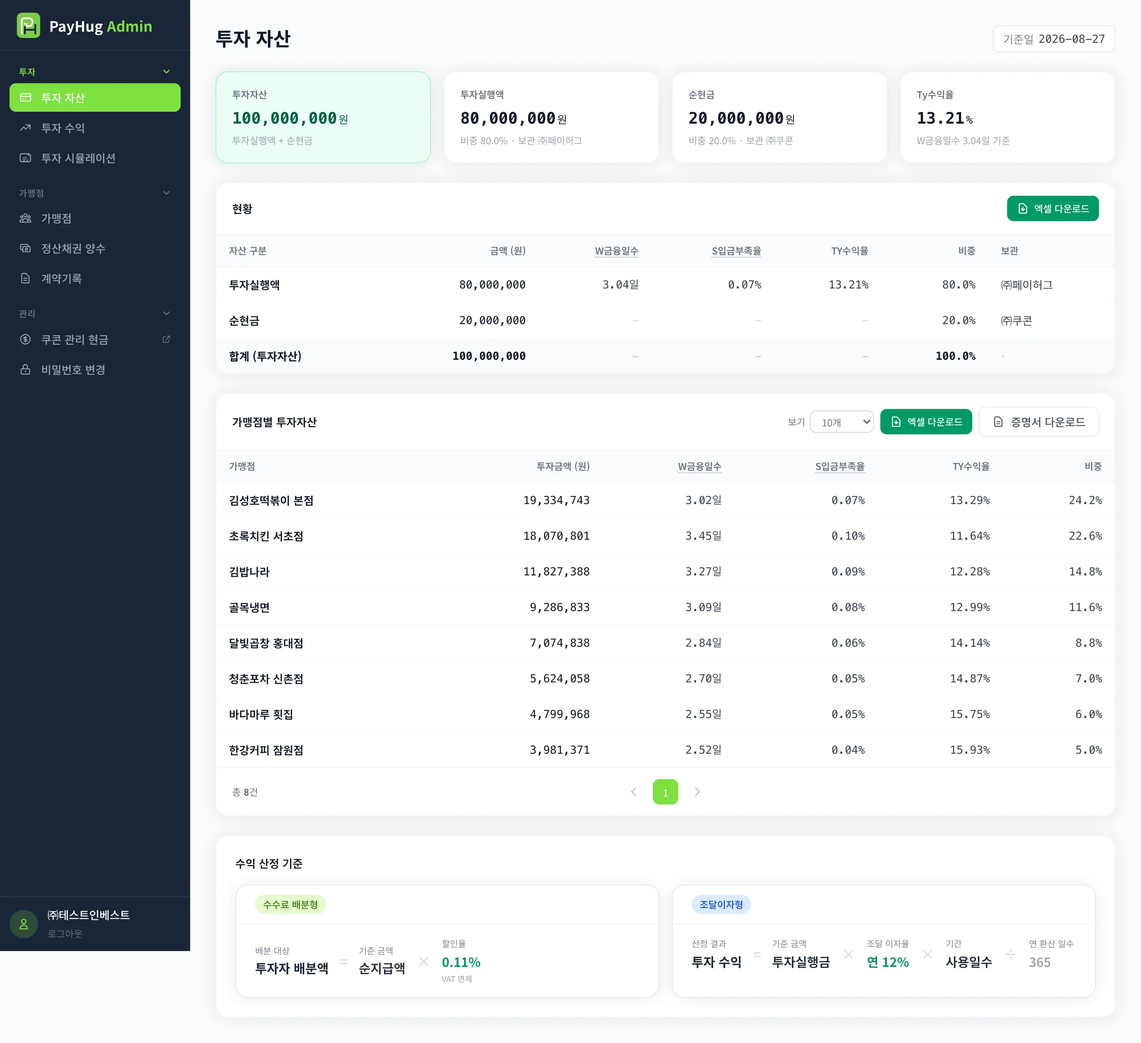
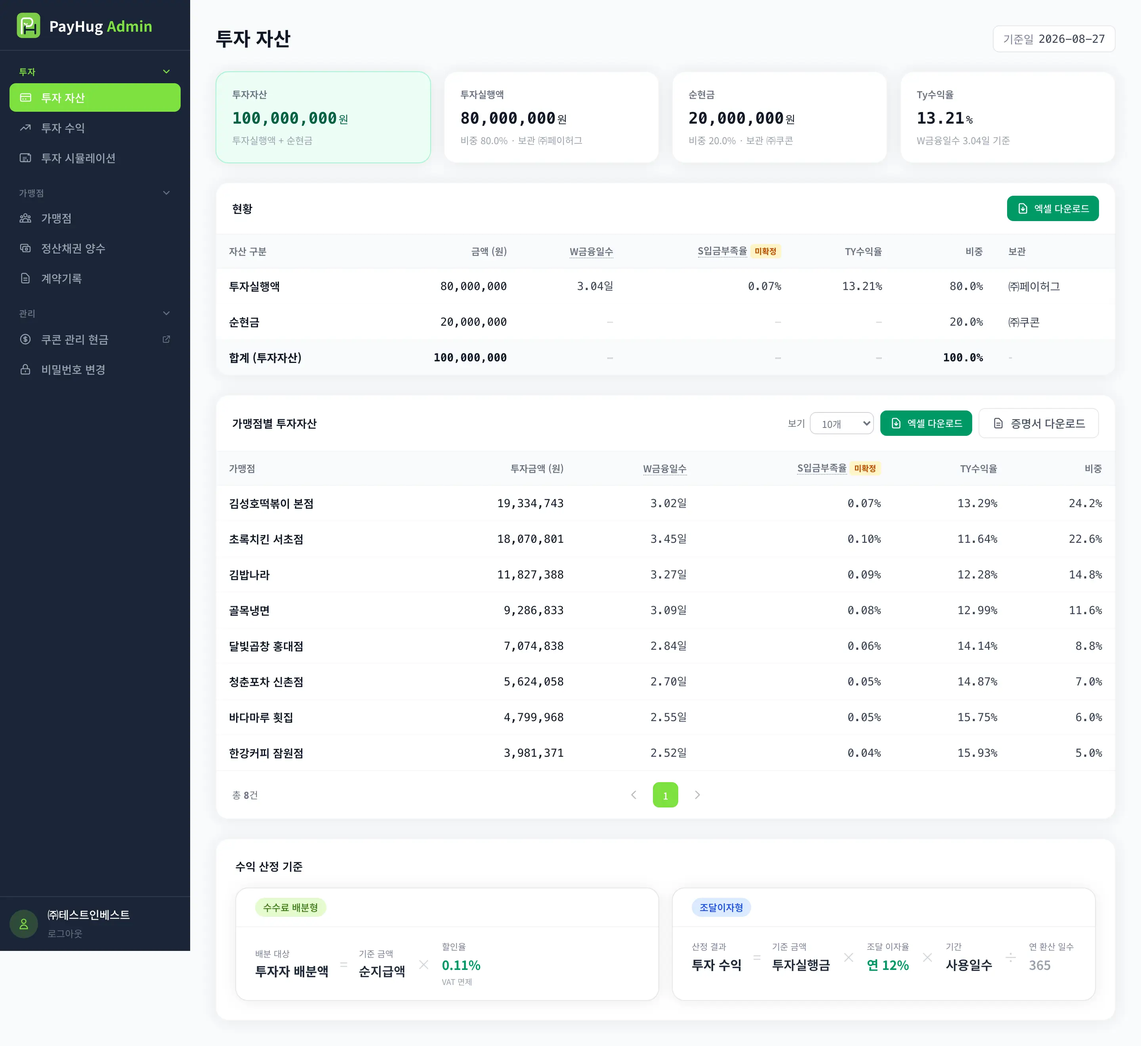
기호 규칙 d 적용 · ⑤ 단일 원천 · ⑥ 배선 — 화면 재생성
- S입금부족율 열머리 표본 구간을 d-20 ~ d-11 로. 소문자 d 표기가 잠정이라 그 열머리에만 미확정 배지
- ③ 투자실행금 열머리에 ⑤⑥ 과 같은 미확정 배지 — 대표가 칸을 지목하지 않았다
- ⑥ 열머리 툴팁에 행의 뜻 한 줄 — 정산예정일이 그 날짜인 대상정산금채권 집합
- 대표 DM 16:19 · 16:27 · 16:45 세 사실을 투자 자산 카드 툴팁과 ④ 툴팁에. 일 환산은 값 없이 미확정 자리만
- ⑤·⑥ 산식이 daily_ledger.py 한 줄에서 오도록 배선. 화면 숫자는 그대로

diff --git a/app.html b/app.html
@@ -443,7 +443,7 @@
 </style>
 </head>
 <!--
-  통합 프로토타입 — 한 파일에서 화면 15 · 상태 18 전부를 조작한다.
+  통합 프로토타입 — 한 파일에서 화면 16 · 상태 18 전부를 조작한다.
   개별 HTML 33개는 Figma 임포트용 정적 원본으로 별도 보존한다(이 파일이 대체하지 않는다).
   화면은 데이터 모델에서만 그린다. 표·합계·비중은 조작 결과로 계산되며 하드코딩하지 않는다.
   딥링크: #<화면>/<상태>  예) #invest-assets/download · #acquisition-list/signing
@@ -1064,7 +1064,7 @@
       </div>
       <span class="hero-date">2026-08-27</span>
     </div>
-    <div class="sec-head"><h2>화면</h2><span class="sec-note">메뉴 대응 8 · 하위 6 · 상태 18</span></div>
+    <div class="sec-head"><h2>화면</h2><span class="sec-note">메뉴 대응 8 · 하위 7 · 상태 18</span></div>
     <div class="gallery" data-mount="ix-gallery"></div>
   </div>
 </section>
@@ -1655,18 +1655,32 @@ function wavg(a, k, wk){ var n=0, d=0; for(var i=0;i<a.length;i++){ n += a[i][k]
    현황표의 두 칸과 맞아떨어지지 않는다. 그 모집단을 열머리 툴팁이 그대로 적는다.
    건수는 채권 원장 실측이다(daily_ledger.py) — 화면에 손으로 적지 않는다. */
 var POP_W = {of:'대상정산금채권 전체 (발생 기준)', n:'61,760건'};
-var POP_S = {of:'선정산일 D-20 ~ D-11 표본',       n:'3,200건'};
+/* 소문자 d 표기는 잠정이다 — 대표 DM 15:15 는 금융일수 쪽 글자를 바꾸라고 했고 우리는 날짜 쪽을
+   내렸다(dm_0831/symbol_rule_0831.md). 4차 미팅 확인 전까지 표기에 미확정을 단다. */
+var POP_S = {of:'선정산일 d-20 ~ d-11 표본',       n:'3,200건', pend:1};
 function popTh(label, p){
   return '<th class="num"><span class="tooltip wide"><span class="tip-anchor">' + label + '</span>' +
          '<span class="tip-panel">' + p.of +
            '<span class="tip-row"><span>채권 건수</span><span class="tip-green">' + p.n + '</span></span>' +
-         '</span></span></th>';
+           (p.pend ? '<span class="tip-row"><span>표기 d</span><span>미확정</span></span>' + PEND_ROW : '') +
+         '</span></span>' + (p.pend ? PEND_BADGE : '') + '</th>';
 }
 /* 대표 재전달 대기 — 2026-08-31 회의에서 ⑤ 는 「수식 새로 작성해 전달」,
    ⑥ 은 「4,5번과 다르니 계산식 다시 확인할 것」 으로 끝났다(meeting_0831/ceo_definitions_20260831.txt).
    값은 그대로 두고 미확정만 표시한다 — 표기는 용어정의서가 쓰는 낱말 `미확정` 을 그대로 쓴다. */
 var PEND_BADGE = ' <span class="badge sm badge-amber">미확정</span>';
 var PEND_ROW   = '<span class="tip-row sum"><span>미확정</span><span>대표 재전달 대기</span></span>';
+/* ── ③ ⑤ ⑥ 단일 원천 ────────────────────────────────────────────
+   산식은 생성기 daily_ledger.py 의 ty_third · ty_asset · ty_row 한 벌에서 온다
+   (TY3_JS · TY5_JS · TY6_JS). 화면에 두 번째 산식을 적지 않는다 —
+   대표가 ⑤ 를 새로 주면 daily_ledger.ty_asset 한 곳만 고치면 ⑤·⑥ 이 함께 움직인다. */
+function ty3(execu){ return execu; }
+function ty5(ty4, psa, psc){ var tot = psa + psc;
+  return tot ? ty4 * psa / tot : 0; }
+var TY6_PSC = 0;   /* ⑥ 이 ⑤ 를 거칠 때 넣는 PSC — 일별 EC 원장이 없어 0 이다 */
+function ty6(profit, execu, w){ var third = ty3(execu);
+  if(!(third && w)) return 0;
+  return ty5((profit / third * 100) * 365 / w, third, TY6_PSC); }
 /* ⑥ 일별 Ty수익율 열 — 원문 `(④ ÷ ③) × 365 ÷ ⑤` 를 일별 표의 열 번호로 읽은 것이다.
    현황 카드 번호(④ 투자실행금액 대비 · ⑤ 투자자산 대비)를 그대로 넣으면
    `수익률 ÷ 금액 × 365 ÷ 수익률` 이 되어 성립하지 않는다. */
@@ -1674,6 +1688,16 @@ function tyTh(){
   return '<th class="num"><span class="tooltip wide"><span class="tip-anchor">Ty수익율</span>' +
          '<span class="tip-panel">(④ ÷ ③) × 365 ÷ ⑤' +
            '<span class="tip-row"><span>번호</span><span class="tip-green">일별 표 열 ③투자실행금 ④투자 수익 ⑤W금융일수</span></span>' +
+           '<span class="tip-row"><span>행</span><span class="tip-green">정산예정일이 그 날짜인 대상정산금채권 집합</span></span>' +
+           PEND_ROW +
+         '</span></span>' + PEND_BADGE + '</th>';
+}
+/* ③ 열머리 — 대표는 ③ 을 「상단 현황의 기간 전체 숫자」까지만 좁혔고 어느 칸인지는 지목하지 않았다
+   (2026-08-31 회의 00:59:21). ⑥ 이 ③ 을 쓰므로 ⑤·⑥ 과 같은 배지를 단다. */
+function thirdTh(){
+  return '<th class="num"><span class="tooltip wide"><span class="tip-anchor">투자실행금</span>' +
+         '<span class="tip-panel">⑥ 의 ③' +
+           '<span class="tip-row"><span>번호</span><span class="tip-green">상단 현황의 기간 전체 숫자 · 칸 미지목</span></span>' +
            PEND_ROW +
          '</span></span>' + PEND_BADGE + '</th>';
 }
@@ -2067,13 +2091,26 @@ RENDER['invest-assets'] = function(){
     '<div class="summary-card highlight"><div class="summary-label">투자자산</div>' +
       '<div class="summary-value">' + fmt(total) + '<span class="unit">원</span></div>' +
       '<div class="summary-sub">투자실행액 + 순현금</div></div>' +
-    '<div class="summary-card"><div class="summary-label">투자실행액</div>' +
+    '<div class="summary-card"><div class="summary-label">' +
+      '<span class="tooltip wide"><span class="tip-anchor">투자실행액</span>' +
+        '<span class="tip-panel">순지급액 × (1 − 할인율)' +
+          '<span class="tip-row"><span>할인율</span><span class="tip-green">' + fx(RATE_PCT, 2) + '%</span></span>' +
+          '<span class="tip-row"><span>대표 DM 16:19</span><span class="tip-green">가맹점 매입 1% 차감</span></span>' +
+          '<span class="tip-row sum"><span>미확정</span><span>선정산 실행액은 이보다 작다</span></span>' +
+        '</span></span></div>' +
       '<div class="summary-value">' + fmt(exec) + '<span class="unit">원</span></div>' +
       '<div class="summary-sub">비중 ' + fx(rExec, 1) + '% · 보관 ㈜페이허그</div></div>' +
     '<div class="summary-card"><div class="summary-label">순현금</div>' +
       '<div class="summary-value">' + fmt(cash) + '<span class="unit">원</span></div>' +
       '<div class="summary-sub">비중 ' + fx(rCash, 1) + '% · 보관 ㈜쿠콘</div></div>' +
-    '<div class="summary-card"><div class="summary-label">Ty수익율</div>' +
+    '<div class="summary-card"><div class="summary-label">' +
+      '<span class="tooltip wide"><span class="tip-anchor">Ty수익율</span>' +
+        '<span class="tip-panel">할인율 × (365 ÷ W금융일수)' +
+          '<span class="tip-row"><span>연 환산</span><span class="tip-green">' + fx(tyv, 2) + '%</span></span>' +
+          '<span class="tip-row"><span>일 환산</span><span>미확정</span></span>' +
+          '<span class="tip-row"><span>대표 DM 16:27</span><span class="tip-green">365 ÷ W금융일수 = 1년 회전수</span></span>' +
+          '<span class="tip-row sum"><span>대표 DM 16:45</span><span>예상치 · 할인율 계통</span></span>' +
+        '</span></span></div>' +
       '<div class="summary-value">' + fx(tyv, 2) + '<span class="unit">%</span></div>' +
       '<div class="summary-sub">' + (wv === null ? 'W금융일수 집계 대상 없음' : 'W금융일수 ' + fx(wv, 2) + '일 기준') + '</div></div>';
 
@@ -2181,7 +2218,7 @@ function rollupBy(days, keyOf, labelOf){
        일자별 ty 를 다시 가중평균하면 표기 자리에서 W 와 어긋난다(주 버킷에서 실제로 어긋났다).
        반올림하지 않고 담아 두고 표기할 때만 자른다. 그래야 일별·주별·월별 표의 카드 값이 같다. */
     g.w  = g.exec ? g.wx / g.exec : 0;
-    g.ty = (g.exec && g.w) ? (g.profit / g.exec * 100) * 365 / g.w : 0;
+    g.ty = ty6(g.profit, g.exec, g.w);   /* ⑥ — ty5() 를 거친다 */
   }
   out.sort(function(a, b){ return a.k < b.k ? -1 : (a.k > b.k ? 1 : 0); });
   return out;
@@ -2222,15 +2259,17 @@ function cashRow(){
   return null;
 }
 /* ── 투자자산 대비 Ty수익율 (현황 ⑤) — 대표 정의서 ────────────────
-   ⑤ = (④ × PSA) / (PSA + PSC).  PSA = 기간 투자실행금 합, PSC = 기간 동안 EC들의 합.
-   EC = 전일자 마감시점 순현금이며 하루에 한 건 쌓인다(유량). 기준일 잔액 1개(스톡)로 나누지 않는다.
+   산식은 ty5() 한 곳에 있다(생성기 daily_ledger.ty_asset). 여기는 PSC 를 만들어 넘기기만 한다.
+   PSA = 기간 투자실행금 합, PSC = 기간 동안 EC들의 합.
+   EC = 정산예정일이 어제인 대상정산금채권을 마감한 시점의 순현금이며 하루에 한 건 쌓인다(유량).
+   기준일 잔액 1개(스톡)로 나누지 않는다.
    일별 EC 원장이 없어 EC 는 순현금 잔액으로 고정한다 — 실데이터 연결은 확인 대상. */
 /* EC 는 하루에 한 건 쌓이는 유량이라 조회 기간에 걸린 일수만큼 센다.
    일별·월별 어느 쪽으로 보든 같은 기간이면 같은 일수라야 하므로 원장 일수 하나로 센다. */
 function ecDays(){ return pfDays().length; }
 function tyAssetOf(ty4, psa){
   var c = cashRow(), psc = (c ? c.amount : 0) * ecDays();
-  return (psa + psc) ? ty4 * psa / (psa + psc) : 0;
+  return ty5(ty4, psa, psc);
 }
 RENDER['invest-profit'] = function(){
   var sec = SEC('invest-profit'), rows = pfRows();
@@ -2273,6 +2312,9 @@ RENDER['invest-profit'] = function(){
         '<span class="tip-panel">PSMR × 365 ÷ PSD' +
           '<span class="tip-row"><span>PSMR</span><span class="tip-green">투자수익 ÷ 투자실행금</span></span>' +
           '<span class="tip-row"><span>PSD</span><span class="tip-green">투자실행금 가중평균 금융일수</span></span>' +
+          '<span class="tip-row"><span>항등식</span><span class="tip-green">할인율 − max(0, 미지급금 − 과지급금) ÷ 투자실행액</span></span>' +
+          '<span class="tip-row"><span>부족액 0</span><span class="tip-green">할인율 ' + fx(RATE_PCT, 2) + '% ↔ SMR ' + fx(RATE_PCT / (1 - RATE_PCT / 100), 6) + '% · 미확정</span></span>' +
+          '<span class="tip-row sum"><span>대표 DM 16:45</span><span>실적치 · SMR 계통</span></span>' +
         '</span></span></div>' +
         '<div class="summary-value">' + fx(tyExec, 2) + '<span class="unit">%</span></div></div>' +
       '<div><div class="ty-label"><span class="tooltip wide"><span class="tip-anchor">투자자산 대비</span>' +
@@ -2287,7 +2329,7 @@ RENDER['invest-profit'] = function(){
 
   var box = M('pf-tbl', 'invest-profit');
   var PF_HEAD = '<th>' + GRAN_COL[PF.gran] + '</th><th class="num">상환액</th>' +
-                '<th class="num">투자실행금</th><th class="num">투자 수익</th>' +
+                thirdTh() + '<th class="num">투자 수익</th>' +
                 '<th class="num">W금융일수</th>' + tyTh();
   if(!rows.length){
     box.innerHTML = emptyTable(PF_HEAD, 6, '조회 결과가 없습니다.');
@@ -2320,7 +2362,8 @@ RENDER['invest-profit'] = function(){
 /* ───────── 투자 시뮬레이션 ─────────
    기존 화면과 완전히 별개다. SIM 은 IA·PF·MC·AQ·CT 와 독립된 상태 객체이고
    simRun() 은 MERCHANTS·ASSET_ROWS·DAILY 를 읽지도 쓰지도 않는다.
-   산식 출처 — 대표 정의서 [1번 이미지] A<sub>i</sub>·D<sub>i</sub>·w·ty·S · [2번 이미지] M<sub>D−1,&thinsp;i</sub>·B<sub>D−1,&thinsp;i</sub>·PSA·PSM·PSD·PSMR·PSC.
+   산식 출처 — 대표 정의서 [1번 이미지] A<sub>i</sub>·D<sub>i</sub>·w·ty·S · [2번 이미지] M<sub>d−1,&thinsp;i</sub>·B<sub>d−1,&thinsp;i</sub>·PSA·PSM·PSD·PSMR·PSC.
+   대문자 D 는 금융일수, 소문자 d 는 오늘 날짜다. d−1 은 어제 날짜가 아니라 정산예정일이 어제인 대상정산금채권 집합을 가리킨다.
    앵커는 순지급액이다(채권매입수수료 = 순지급액 x 할인율 · D-31). 일별 원장 daily_ledger.py 도 같은 앵커라
    투자 수익 화면과 이 화면의 같은 열은 같은 산식에서 나온다. */
 var SIM_PLAT = [
@@ -2374,7 +2417,7 @@ function simDays(a, b){ return Math.round((dt(b) - dt(a)) / 86400000); }
 function simFloor(x){ return Math.floor(Number(Number(x).toFixed(6))); }
 function simAmtTotal(){ var t = 0, i; for(i = 0; i < SIM.rows.length; i++) t += SIM.rows[i].amt; return t; }
 
-/* 채권 1건 — A<sub>i</sub> · D<sub>i</sub> · 채권매입수수료 · 미지급 차감 · 투자수익 M<sub>D−1,&thinsp;i</sub> · 상환액 B<sub>D−1,&thinsp;i</sub> */
+/* 채권 1건 — A<sub>i</sub> · D<sub>i</sub> · 채권매입수수료 · 미지급 차감 · 투자수익 M<sub>d−1,&thinsp;i</sub> · 상환액 B<sub>d−1,&thinsp;i</sub> */
 function simBond(row, r, dedRate){
   var A   = simFloor(row.amt * (1 - r));
   var D   = simDays(row.sd, row.dd);
@@ -2410,7 +2453,7 @@ function simRun(){
   var TY4  = PSD ? PSMR * 365 / PSD : 0;
   var ECD  = (SIM.from && SIM.to) ? simDays(SIM.from, SIM.to) + 1 : 0;
   var PSC  = SIM.cash * ECD;
-  var TY5  = (PSA + PSC) ? TY4 * PSA / (PSA + PSC) : 0;
+  var TY5  = ty5(TY4, PSA, PSC);
 
   /* ── 일별 ── */
   var day = {}, keys = [];
@@ -2423,7 +2466,7 @@ function simRun(){
   var rows = keys.map(function(k){
     var g = day[k];
     g.W  = g.A ? g.wx / g.A : 0;
-    g.TY = (g.A && g.W) ? (g.M / g.A * 100) * 365 / g.W : 0;
+    g.TY = ty6(g.M, g.A, g.W);   /* ⑥ — ty5() 를 거친다 */
     return g;
   });
 
@@ -2562,6 +2605,9 @@ function simTyTip(R){
       '<span class="tip-panel">PSMR × 365 ÷ PSD' +
         '<span class="tip-row"><span>PSMR</span><span class="tip-green">투자수익 ÷ 투자실행금</span></span>' +
         '<span class="tip-row"><span>PSD</span><span class="tip-green">투자실행금 가중평균 금융일수</span></span>' +
+        '<span class="tip-row"><span>항등식</span><span class="tip-green">할인율 − max(0, 미지급금 − 과지급금) ÷ 투자실행액</span></span>' +
+        '<span class="tip-row"><span>부족액 0</span><span class="tip-green">할인율 ' + fx(RATE_PCT, 2) + '% ↔ SMR ' + fx(RATE_PCT / (1 - RATE_PCT / 100), 6) + '% · 미확정</span></span>' +
+        '<span class="tip-row sum"><span>대표 DM 16:45</span><span>실적치 · SMR 계통</span></span>' +
       '</span></span></div>' +
       '<div class="summary-value' + (R.TY4 < 0 ? ' neg' : '') + '">' + fx(R.TY4, 2) + '<span class="unit">%</span></div></div>' +
     '<div><div class="ty-label"><span class="tooltip wide"><span class="tip-anchor">투자자산 대비</span>' +
@@ -2643,7 +2689,7 @@ function simResultHtml(){
     '</div></div>';
 
   /* ⑤ 일별 투자수익 */
-  var HEAD = '<th>정산예정일</th><th class="num">상환액</th><th class="num">투자실행금</th>' +
+  var HEAD = '<th>정산예정일</th><th class="num">상환액</th>' + thirdTh() +
              '<th class="num">투자 수익</th><th class="num">W금융일수</th>' + tyTh();
   h += '<div class="tbl-wrap mb-6"><div class="tbl-head"><div class="left">' +
        '<h2 class="card-title">일별 투자수익</h2></div></div>';

diff --git a/invest-sim--result.html b/invest-sim--result.html
@@ -369,7 +369,7 @@
           <div class="summary-label">Ty수익율</div>
           <div class="ty-split">
             <div>
-              <div class="ty-label"><span class="tooltip wide"><span class="tip-anchor">투자실행금액 대비</span><span class="tip-panel">PSMR × 365 ÷ PSD<span class="tip-row"><span>PSMR</span><span class="tip-green">투자수익 ÷ 투자실행금</span></span><span class="tip-row"><span>PSD</span><span class="tip-green">투자실행금 가중평균 금융일수</span></span></span></span></div>
+              <div class="ty-label"><span class="tooltip wide"><span class="tip-anchor">투자실행금액 대비</span><span class="tip-panel">PSMR × 365 ÷ PSD<span class="tip-row"><span>PSMR</span><span class="tip-green">투자수익 ÷ 투자실행금</span></span><span class="tip-row"><span>PSD</span><span class="tip-green">투자실행금 가중평균 금융일수</span></span><span class="tip-row"><span>항등식</span><span class="tip-green">할인율 − max(0, 미지급금 − 과지급금) ÷ 투자실행액</span></span><span class="tip-row"><span>부족액 0</span><span class="tip-green">할인율 0.11% ↔ SMR 0.110121% · 미확정</span></span><span class="tip-row sum"><span>대표 DM 16:45</span><span>실적치 · SMR 계통</span></span></span></span></div>
               <div class="summary-value">4.81<span class="unit">%</span></div>
             </div>
             <div>
@@ -386,7 +386,7 @@
       <div class="tbl-scroll">
         <table class="tbl">
           <thead>
-            <tr><th>정산예정일</th><th class="num">상환액</th><th class="num">투자실행금</th><th class="num">투자 수익</th><th class="num">W금융일수</th><th class="num"><span class="tooltip wide"><span class="tip-anchor">Ty수익율</span><span class="tip-panel">(④ ÷ ③) × 365 ÷ ⑤<span class="tip-row"><span>번호</span><span class="tip-green">일별 표 열 ③투자실행금 ④투자 수익 ⑤W금융일수</span></span><span class="tip-row sum"><span>미확정</span><span>대표 재전달 대기</span></span></span></span> <span class="badge sm badge-amber">미확정</span></th></tr>
+            <tr><th>정산예정일</th><th class="num">상환액</th><th class="num"><span class="tooltip wide"><span class="tip-anchor">투자실행금</span><span class="tip-panel">⑥ 의 ③<span class="tip-row"><span>번호</span><span class="tip-green">상단 현황의 기간 전체 숫자 · 칸 미지목</span></span><span class="tip-row sum"><span>미확정</span><span>대표 재전달 대기</span></span></span></span> <span class="badge sm badge-amber">미확정</span></th><th class="num">투자 수익</th><th class="num">W금융일수</th><th class="num"><span class="tooltip wide"><span class="tip-anchor">Ty수익율</span><span class="tip-panel">(④ ÷ ③) × 365 ÷ ⑤<span class="tip-row"><span>번호</span><span class="tip-green">일별 표 열 ③투자실행금 ④투자 수익 ⑤W금융일수</span></span><span class="tip-row"><span>행</span><span class="tip-green">정산예정일이 그 날짜인 대상정산금채권 집합</span></span><span class="tip-row sum"><span>미확정</span><span>대표 재전달 대기</span></span></span></span> <span class="badge sm badge-amber">미확정</span></th></tr>
           </thead>
           <tbody>
             <tr><td class="mono">2026-08-24</td><td class="num">15,189,360</td><td class="num">15,183,280</td><td class="num"><span class="strong">6,080</span></td><td class="num">2.00</td><td class="num">7.31%</td></tr>

diff --git a/invest-profit--empty.html b/invest-profit--empty.html
@@ -173,7 +173,7 @@
           <div class="summary-label">Ty수익율</div>
           <div class="ty-split">
             <div>
-              <div class="ty-label"><span class="tooltip wide"><span class="tip-anchor">투자실행금액 대비</span><span class="tip-panel">PSMR × 365 ÷ PSD<span class="tip-row"><span>PSMR</span><span class="tip-green">투자수익 ÷ 투자실행금</span></span><span class="tip-row"><span>PSD</span><span class="tip-green">투자실행금 가중평균 금융일수</span></span></span></span></div>
+              <div class="ty-label"><span class="tooltip wide"><span class="tip-anchor">투자실행금액 대비</span><span class="tip-panel">PSMR × 365 ÷ PSD<span class="tip-row"><span>PSMR</span><span class="tip-green">투자수익 ÷ 투자실행금</span></span><span class="tip-row"><span>PSD</span><span class="tip-green">투자실행금 가중평균 금융일수</span></span><span class="tip-row"><span>항등식</span><span class="tip-green">할인율 − max(0, 미지급금 − 과지급금) ÷ 투자실행액</span></span><span class="tip-row"><span>부족액 0</span><span class="tip-green">할인율 0.11% ↔ SMR 0.110121% · 미확정</span></span><span class="tip-row sum"><span>대표 DM 16:45</span><span>실적치 · SMR 계통</span></span></span></span></div>
               <div class="summary-value">0.00<span class="unit">%</span></div>
             </div>
             <div>
@@ -202,10 +202,10 @@
             <tr>
               <th>정산예정일</th>
               <th class="num">상환액</th>
-              <th class="num">투자실행금</th>
+              <th class="num"><span class="tooltip wide"><span class="tip-anchor">투자실행금</span><span class="tip-panel">⑥ 의 ③<span class="tip-row"><span>번호</span><span class="tip-green">상단 현황의 기간 전체 숫자 · 칸 미지목</span></span><span class="tip-row sum"><span>미확정</span><span>대표 재전달 대기</span></span></span></span> <span class="badge sm badge-amber">미확정</span></th>
               <th class="num">투자 수익</th>
               <th class="num">W금융일수</th>
-              <th class="num"><span class="tooltip wide"><span class="tip-anchor">Ty수익율</span><span class="tip-panel">(④ ÷ ③) × 365 ÷ ⑤<span class="tip-row"><span>번호</span><span class="tip-green">일별 표 열 ③투자실행금 ④투자 수익 ⑤W금융일수</span></span><span class="tip-row sum"><span>미확정</span><span>대표 재전달 대기</span></span></span></span> <span class="badge sm badge-amber">미확정</span></th>
+              <th class="num"><span class="tooltip wide"><span class="tip-anchor">Ty수익율</span><span class="tip-panel">(④ ÷ ③) × 365 ÷ ⑤<span class="tip-row"><span>번호</span><span class="tip-green">일별 표 열 ③투자실행금 ④투자 수익 ⑤W금융일수</span></span><span class="tip-row"><span>행</span><span class="tip-green">정산예정일이 그 날짜인 대상정산금채권 집합</span></span><span class="tip-row sum"><span>미확정</span><span>대표 재전달 대기</span></span></span></span> <span class="badge sm badge-amber">미확정</span></th>
             </tr>
           </thead>
           <tbody>

diff --git a/invest-profit--monthly.html b/invest-profit--monthly.html
@@ -173,7 +173,7 @@
           <div class="summary-label">Ty수익율</div>
           <div class="ty-split">
             <div>
-              <div class="ty-label"><span class="tooltip wide"><span class="tip-anchor">투자실행금액 대비</span><span class="tip-panel">PSMR × 365 ÷ PSD<span class="tip-row"><span>PSMR</span><span class="tip-green">투자수익 ÷ 투자실행금</span></span><span class="tip-row"><span>PSD</span><span class="tip-green">투자실행금 가중평균 금융일수</span></span></span></span></div>
+              <div class="ty-label"><span class="tooltip wide"><span class="tip-anchor">투자실행금액 대비</span><span class="tip-panel">PSMR × 365 ÷ PSD<span class="tip-row"><span>PSMR</span><span class="tip-green">투자수익 ÷ 투자실행금</span></span><span class="tip-row"><span>PSD</span><span class="tip-green">투자실행금 가중평균 금융일수</span></span><span class="tip-row"><span>항등식</span><span class="tip-green">할인율 − max(0, 미지급금 − 과지급금) ÷ 투자실행액</span></span><span class="tip-row"><span>부족액 0</span><span class="tip-green">할인율 0.11% ↔ SMR 0.110121% · 미확정</span></span><span class="tip-row sum"><span>대표 DM 16:45</span><span>실적치 · SMR 계통</span></span></span></span></div>
               <div class="summary-value">4.57<span class="unit">%</span></div>
             </div>
             <div>
@@ -202,10 +202,10 @@
             <tr>
               <th>정산예정월</th>
               <th class="num">상환액</th>
-              <th class="num">투자실행금</th>
+              <th class="num"><span class="tooltip wide"><span class="tip-anchor">투자실행금</span><span class="tip-panel">⑥ 의 ③<span class="tip-row"><span>번호</span><span class="tip-green">상단 현황의 기간 전체 숫자 · 칸 미지목</span></span><span class="tip-row sum"><span>미확정</span><span>대표 재전달 대기</span></span></span></span> <span class="badge sm badge-amber">미확정</span></th>
               <th class="num">투자 수익</th>
               <th class="num">W금융일수</th>
-              <th class="num"><span class="tooltip wide"><span class="tip-anchor">Ty수익율</span><span class="tip-panel">(④ ÷ ③) × 365 ÷ ⑤<span class="tip-row"><span>번호</span><span class="tip-green">일별 표 열 ③투자실행금 ④투자 수익 ⑤W금융일수</span></span><span class="tip-row sum"><span>미확정</span><span>대표 재전달 대기</span></span></span></span> <span class="badge sm badge-amber">미확정</span></th>
+              <th class="num"><span class="tooltip wide"><span class="tip-anchor">Ty수익율</span><span class="tip-panel">(④ ÷ ③) × 365 ÷ ⑤<span class="tip-row"><span>번호</span><span class="tip-green">일별 표 열 ③투자실행금 ④투자 수익 ⑤W금융일수</span></span><span class="tip-row"><span>행</span><span class="tip-green">정산예정일이 그 날짜인 대상정산금채권 집합</span></span><span class="tip-row sum"><span>미확정</span><span>대표 재전달 대기</span></span></span></span> <span class="badge sm badge-amber">미확정</span></th>
             </tr>
           </thead>
           <tbody>

diff --git a/invest-profit--weekly.html b/invest-profit--weekly.html
@@ -173,7 +173,7 @@
           <div class="summary-label">Ty수익율</div>
           <div class="ty-split">
             <div>
-              <div class="ty-label"><span class="tooltip wide"><span class="tip-anchor">투자실행금액 대비</span><span class="tip-panel">PSMR × 365 ÷ PSD<span class="tip-row"><span>PSMR</span><span class="tip-green">투자수익 ÷ 투자실행금</span></span><span class="tip-row"><span>PSD</span><span class="tip-green">투자실행금 가중평균 금융일수</span></span></span></span></div>
+              <div class="ty-label"><span class="tooltip wide"><span class="tip-anchor">투자실행금액 대비</span><span class="tip-panel">PSMR × 365 ÷ PSD<span class="tip-row"><span>PSMR</span><span class="tip-green">투자수익 ÷ 투자실행금</span></span><span class="tip-row"><span>PSD</span><span class="tip-green">투자실행금 가중평균 금융일수</span></span><span class="tip-row"><span>항등식</span><span class="tip-green">할인율 − max(0, 미지급금 − 과지급금) ÷ 투자실행액</span></span><span class="tip-row"><span>부족액 0</span><span class="tip-green">할인율 0.11% ↔ SMR 0.110121% · 미확정</span></span><span class="tip-row sum"><span>대표 DM 16:45</span><span>실적치 · SMR 계통</span></span></span></span></div>
               <div class="summary-value">4.62<span class="unit">%</span></div>
             </div>
             <div>
@@ -202,10 +202,10 @@
             <tr>
               <th>정산예정주</th>
               <th class="num">상환액</th>
-              <th class="num">투자실행금</th>
+              <th class="num"><span class="tooltip wide"><span class="tip-anchor">투자실행금</span><span class="tip-panel">⑥ 의 ③<span class="tip-row"><span>번호</span><span class="tip-green">상단 현황의 기간 전체 숫자 · 칸 미지목</span></span><span class="tip-row sum"><span>미확정</span><span>대표 재전달 대기</span></span></span></span> <span class="badge sm badge-amber">미확정</span></th>
               <th class="num">투자 수익</th>
               <th class="num">W금융일수</th>
-              <th class="num"><span class="tooltip wide"><span class="tip-anchor">Ty수익율</span><span class="tip-panel">(④ ÷ ③) × 365 ÷ ⑤<span class="tip-row"><span>번호</span><span class="tip-green">일별 표 열 ③투자실행금 ④투자 수익 ⑤W금융일수</span></span><span class="tip-row sum"><span>미확정</span><span>대표 재전달 대기</span></span></span></span> <span class="badge sm badge-amber">미확정</span></th>
+              <th class="num"><span class="tooltip wide"><span class="tip-anchor">Ty수익율</span><span class="tip-panel">(④ ÷ ③) × 365 ÷ ⑤<span class="tip-row"><span>번호</span><span class="tip-green">일별 표 열 ③투자실행금 ④투자 수익 ⑤W금융일수</span></span><span class="tip-row"><span>행</span><span class="tip-green">정산예정일이 그 날짜인 대상정산금채권 집합</span></span><span class="tip-row sum"><span>미확정</span><span>대표 재전달 대기</span></span></span></span> <span class="badge sm badge-amber">미확정</span></th>
             </tr>
           </thead>
           <tbody>

diff --git a/invest-profit.html b/invest-profit.html
@@ -167,7 +167,7 @@
           <div class="summary-label">Ty수익율</div>
           <div class="ty-split">
             <div>
-              <div class="ty-label"><span class="tooltip wide"><span class="tip-anchor">투자실행금액 대비</span><span class="tip-panel">PSMR × 365 ÷ PSD<span class="tip-row"><span>PSMR</span><span class="tip-green">투자수익 ÷ 투자실행금</span></span><span class="tip-row"><span>PSD</span><span class="tip-green">투자실행금 가중평균 금융일수</span></span></span></span></div>
+              <div class="ty-label"><span class="tooltip wide"><span class="tip-anchor">투자실행금액 대비</span><span class="tip-panel">PSMR × 365 ÷ PSD<span class="tip-row"><span>PSMR</span><span class="tip-green">투자수익 ÷ 투자실행금</span></span><span class="tip-row"><span>PSD</span><span class="tip-green">투자실행금 가중평균 금융일수</span></span><span class="tip-row"><span>항등식</span><span class="tip-green">할인율 − max(0, 미지급금 − 과지급금) ÷ 투자실행액</span></span><span class="tip-row"><span>부족액 0</span><span class="tip-green">할인율 0.11% ↔ SMR 0.110121% · 미확정</span></span><span class="tip-row sum"><span>대표 DM 16:45</span><span>실적치 · SMR 계통</span></span></span></span></div>
               <div class="summary-value">3.99<span class="unit">%</span></div>
             </div>
             <div>
@@ -196,10 +196,10 @@
             <tr>
               <th>정산예정일</th>
               <th class="num">상환액</th>
-              <th class="num">투자실행금</th>
+              <th class="num"><span class="tooltip wide"><span class="tip-anchor">투자실행금</span><span class="tip-panel">⑥ 의 ③<span class="tip-row"><span>번호</span><span class="tip-green">상단 현황의 기간 전체 숫자 · 칸 미지목</span></span><span class="tip-row sum"><span>미확정</span><span>대표 재전달 대기</span></span></span></span> <span class="badge sm badge-amber">미확정</span></th>
               <th class="num">투자 수익</th>
               <th class="num">W금융일수</th>
-              <th class="num"><span class="tooltip wide"><span class="tip-anchor">Ty수익율</span><span class="tip-panel">(④ ÷ ③) × 365 ÷ ⑤<span class="tip-row"><span>번호</span><span class="tip-green">일별 표 열 ③투자실행금 ④투자 수익 ⑤W금융일수</span></span><span class="tip-row sum"><span>미확정</span><span>대표 재전달 대기</span></span></span></span> <span class="badge sm badge-amber">미확정</span></th>
+              <th class="num"><span class="tooltip wide"><span class="tip-anchor">Ty수익율</span><span class="tip-panel">(④ ÷ ③) × 365 ÷ ⑤<span class="tip-row"><span>번호</span><span class="tip-green">일별 표 열 ③투자실행금 ④투자 수익 ⑤W금융일수</span></span><span class="tip-row"><span>행</span><span class="tip-green">정산예정일이 그 날짜인 대상정산금채권 집합</span></span><span class="tip-row sum"><span>미확정</span><span>대표 재전달 대기</span></span></span></span> <span class="badge sm badge-amber">미확정</span></th>
             </tr>
           </thead>
           <tbody>

diff --git a/invest-assets--cert-confirm.html b/invest-assets--cert-confirm.html
@@ -181,7 +181,7 @@
               <th>자산 구분</th>
               <th class="num">금액 (원)</th>
               <th class="num"><span class="tooltip wide"><span class="tip-anchor">W금융일수</span><span class="tip-panel">대상정산금채권 전체 (발생 기준)<span class="tip-row"><span>채권 건수</span><span class="tip-green">61,760건</span></span></span></span></th>
-              <th class="num"><span class="tooltip wide"><span class="tip-anchor">S입금부족율</span><span class="tip-panel">선정산일 D-20 ~ D-11 표본<span class="tip-row"><span>채권 건수</span><span class="tip-green">3,200건</span></span></span></span></th>
+              <th class="num"><span class="tooltip wide"><span class="tip-anchor">S입금부족율</span><span class="tip-panel">선정산일 d-20 ~ d-11 표본<span class="tip-row"><span>채권 건수</span><span class="tip-green">3,200건</span></span><span class="tip-row"><span>표기 d</span><span>미확정</span></span><span class="tip-row sum"><span>미확정</span><span>대표 재전달 대기</span></span></span></span> <span class="badge sm badge-amber">미확정</span></th>
               <th class="num">Ty수익율</th>
               <th class="num">비중</th>
               <th>보관</th>
@@ -243,7 +243,7 @@
               <th>가맹점</th>
               <th class="num">투자금액 (원)</th>
               <th class="num"><span class="tooltip wide"><span class="tip-anchor">W금융일수</span><span class="tip-panel">대상정산금채권 전체 (발생 기준)<span class="tip-row"><span>채권 건수</span><span class="tip-green">61,760건</span></span></span></span></th>
-              <th class="num"><span class="tooltip wide"><span class="tip-anchor">S입금부족율</span><span class="tip-panel">선정산일 D-20 ~ D-11 표본<span class="tip-row"><span>채권 건수</span><span class="tip-green">3,200건</span></span></span></span></th>
+              <th class="num"><span class="tooltip wide"><span class="tip-anchor">S입금부족율</span><span class="tip-panel">선정산일 d-20 ~ d-11 표본<span class="tip-row"><span>채권 건수</span><span class="tip-green">3,200건</span></span><span class="tip-row"><span>표기 d</span><span>미확정</span></span><span class="tip-row sum"><span>미확정</span><span>대표 재전달 대기</span></span></span></span> <span class="badge sm badge-amber">미확정</span></th>
               <th class="num">Ty수익율</th>
               <th class="num">비중</th>
             </tr>

diff --git a/invest-assets--download.html b/invest-assets--download.html
@@ -175,7 +175,7 @@
               <th>자산 구분</th>
               <th class="num">금액 (원)</th>
               <th class="num"><span class="tooltip wide"><span class="tip-anchor">W금융일수</span><span class="tip-panel">대상정산금채권 전체 (발생 기준)<span class="tip-row"><span>채권 건수</span><span class="tip-green">61,760건</span></span></span></span></th>
-              <th class="num"><span class="tooltip wide"><span class="tip-anchor">S입금부족율</span><span class="tip-panel">선정산일 D-20 ~ D-11 표본<span class="tip-row"><span>채권 건수</span><span class="tip-green">3,200건</span></span></span></span></th>
+              <th class="num"><span class="tooltip wide"><span class="tip-anchor">S입금부족율</span><span class="tip-panel">선정산일 d-20 ~ d-11 표본<span class="tip-row"><span>채권 건수</span><span class="tip-green">3,200건</span></span><span class="tip-row"><span>표기 d</span><span>미확정</span></span><span class="tip-row sum"><span>미확정</span><span>대표 재전달 대기</span></span></span></span> <span class="badge sm badge-amber">미확정</span></th>
               <th class="num">Ty수익율</th>
               <th class="num">비중</th>
               <th>보관</th>
@@ -237,7 +237,7 @@
               <th>가맹점</th>
               <th class="num">투자금액 (원)</th>
               <th class="num"><span class="tooltip wide"><span class="tip-anchor">W금융일수</span><span class="tip-panel">대상정산금채권 전체 (발생 기준)<span class="tip-row"><span>채권 건수</span><span class="tip-green">61,760건</span></span></span></span></th>
-              <th class="num"><span class="tooltip wide"><span class="tip-anchor">S입금부족율</span><span class="tip-panel">선정산일 D-20 ~ D-11 표본<span class="tip-row"><span>채권 건수</span><span class="tip-green">3,200건</span></span></span></span></th>
+              <th class="num"><span class="tooltip wide"><span class="tip-anchor">S입금부족율</span><span class="tip-panel">선정산일 d-20 ~ d-11 표본<span class="tip-row"><span>채권 건수</span><span class="tip-green">3,200건</span></span><span class="tip-row"><span>표기 d</span><span>미확정</span></span><span class="tip-row sum"><span>미확정</span><span>대표 재전달 대기</span></span></span></span> <span class="badge sm badge-amber">미확정</span></th>
               <th class="num">Ty수익율</th>
               <th class="num">비중</th>
             </tr>

diff --git a/invest-assets--empty.html b/invest-assets--empty.html
@@ -166,7 +166,7 @@
               <th>자산 구분</th>
               <th class="num">금액 (원)</th>
               <th class="num"><span class="tooltip wide"><span class="tip-anchor">W금융일수</span><span class="tip-panel">대상정산금채권 전체 (발생 기준)<span class="tip-row"><span>채권 건수</span><span class="tip-green">61,760건</span></span></span></span></th>
-              <th class="num"><span class="tooltip wide"><span class="tip-anchor">S입금부족율</span><span class="tip-panel">선정산일 D-20 ~ D-11 표본<span class="tip-row"><span>채권 건수</span><span class="tip-green">3,200건</span></span></span></span></th>
+              <th class="num"><span class="tooltip wide"><span class="tip-anchor">S입금부족율</span><span class="tip-panel">선정산일 d-20 ~ d-11 표본<span class="tip-row"><span>채권 건수</span><span class="tip-green">3,200건</span></span><span class="tip-row"><span>표기 d</span><span>미확정</span></span><span class="tip-row sum"><span>미확정</span><span>대표 재전달 대기</span></span></span></span> <span class="badge sm badge-amber">미확정</span></th>
               <th class="num">Ty수익율</th>
               <th class="num">비중</th>
               <th>보관</th>
@@ -203,7 +203,7 @@
               <th>가맹점</th>
               <th class="num">투자금액 (원)</th>
               <th class="num"><span class="tooltip wide"><span class="tip-anchor">W금융일수</span><span class="tip-panel">대상정산금채권 전체 (발생 기준)<span class="tip-row"><span>채권 건수</span><span class="tip-green">61,760건</span></span></span></span></th>
-              <th class="num"><span class="tooltip wide"><span class="tip-anchor">S입금부족율</span><span class="tip-panel">선정산일 D-20 ~ D-11 표본<span class="tip-row"><span>채권 건수</span><span class="tip-green">3,200건</span></span></span></span></th>
+              <th class="num"><span class="tooltip wide"><span class="tip-anchor">S입금부족율</span><span class="tip-panel">선정산일 d-20 ~ d-11 표본<span class="tip-row"><span>채권 건수</span><span class="tip-green">3,200건</span></span><span class="tip-row"><span>표기 d</span><span>미확정</span></span><span class="tip-row sum"><span>미확정</span><span>대표 재전달 대기</span></span></span></span> <span class="badge sm badge-amber">미확정</span></th>
               <th class="num">Ty수익율</th>
               <th class="num">비중</th>
             </tr>

diff --git a/invest-assets.html b/invest-assets.html
@@ -165,7 +165,7 @@
               <th>자산 구분</th>
               <th class="num">금액 (원)</th>
               <th class="num"><span class="tooltip wide"><span class="tip-anchor">W금융일수</span><span class="tip-panel">대상정산금채권 전체 (발생 기준)<span class="tip-row"><span>채권 건수</span><span class="tip-green">61,760건</span></span></span></span></th>
-              <th class="num"><span class="tooltip wide"><span class="tip-anchor">S입금부족율</span><span class="tip-panel">선정산일 D-20 ~ D-11 표본<span class="tip-row"><span>채권 건수</span><span class="tip-green">3,200건</span></span></span></span></th>
+              <th class="num"><span class="tooltip wide"><span class="tip-anchor">S입금부족율</span><span class="tip-panel">선정산일 d-20 ~ d-11 표본<span class="tip-row"><span>채권 건수</span><span class="tip-green">3,200건</span></span><span class="tip-row"><span>표기 d</span><span>미확정</span></span><span class="tip-row sum"><span>미확정</span><span>대표 재전달 대기</span></span></span></span> <span class="badge sm badge-amber">미확정</span></th>
               <th class="num">Ty수익율</th>
               <th class="num">비중</th>
               <th>보관</th>
@@ -227,7 +227,7 @@
               <th>가맹점</th>
               <th class="num">투자금액 (원)</th>
               <th class="num"><span class="tooltip wide"><span class="tip-anchor">W금융일수</span><span class="tip-panel">대상정산금채권 전체 (발생 기준)<span class="tip-row"><span>채권 건수</span><span class="tip-green">61,760건</span></span></span></span></th>
-              <th class="num"><span class="tooltip wide"><span class="tip-anchor">S입금부족율</span><span class="tip-panel">선정산일 D-20 ~ D-11 표본<span class="tip-row"><span>채권 건수</span><span class="tip-green">3,200건</span></span></span></span></th>
+              <th class="num"><span class="tooltip wide"><span class="tip-anchor">S입금부족율</span><span class="tip-panel">선정산일 d-20 ~ d-11 표본<span class="tip-row"><span>채권 건수</span><span class="tip-green">3,200건</span></span><span class="tip-row"><span>표기 d</span><span>미확정</span></span><span class="tip-row sum"><span>미확정</span><span>대표 재전달 대기</span></span></span></span> <span class="badge sm badge-amber">미확정</span></th>
               <th class="num">Ty수익율</th>
               <th class="num">비중</th>
             </tr>
